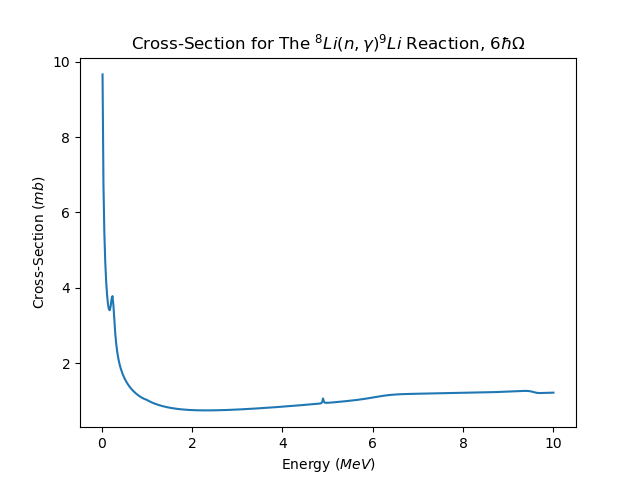
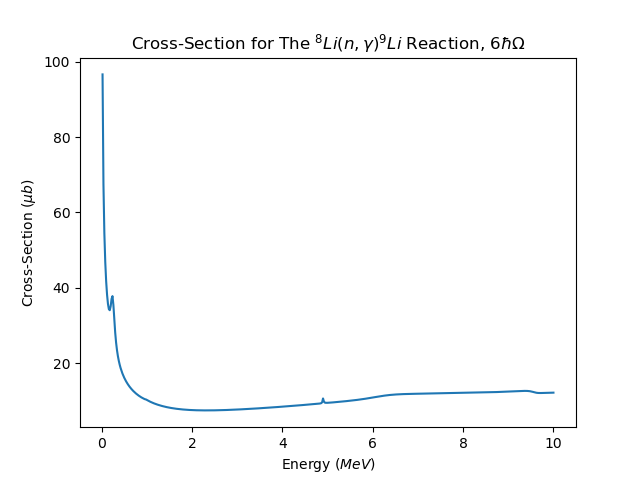
a

diff --git a/cross_sections/plot_cross_section.py b/cross_sections/plot_cross_section.py
@@ -1,7 +1,7 @@
 import matplotlib.pyplot as plt
 
-sigma_gamma_integ = "/global/scratch/ccmccracken/npsm/cross_sections/nLi8_n3lo-NN3Nlnl-srg2.0_20_Nmax6_pheno_all_adjusted_1m/sigma_gamma_integ_nLi8_n3lo-NN3Nlnl-srg2.0_20_Nmax6_pheno_all_adjusted_1m_NCSMC_E1M1E2_Li9_2J_1.agr"
-fig_name = "cross_section_1m.png"
+sigma_gamma_integ = "/global/scratch/ccmccracken/npsm/cross_sections/nLi8_n3lo-NN3Nlnl-srg2.0_20_Nmax6_pheno_all_adjusted_3m/sigma_gamma_integ_nLi8_n3lo-NN3Nlnl-srg2.0_20_Nmax6_pheno_all_adjusted_3m_NCSMC_E1M1E2_Li9_2J_3.agr"
+fig_name = "cross_section_3m.png"
 
 with open(sigma_gamma_integ, "r+") as sig_file:
     lines = sig_file.readlines()
@@ -15,12 +15,12 @@ for line in lines:
     words = line.split()
     e = float(words[0])
     energies.append(e)
-    c = float(words[2]) * 1000
+    c = float(words[2]) * 10000
     cross_sections.append(c)
 
 
 plt.plot(energies, cross_sections)
 plt.title("Cross-Section for The $^8Li(n, \\gamma) ^9Li$ Reaction, $6\\hbar \\Omega$")
 plt.xlabel("Energy ($MeV$)")
-plt.ylabel("Cross-Section ($mb$)")
+plt.ylabel("Cross-Section ($\\mu b$)")
 plt.savefig(fig_name)
